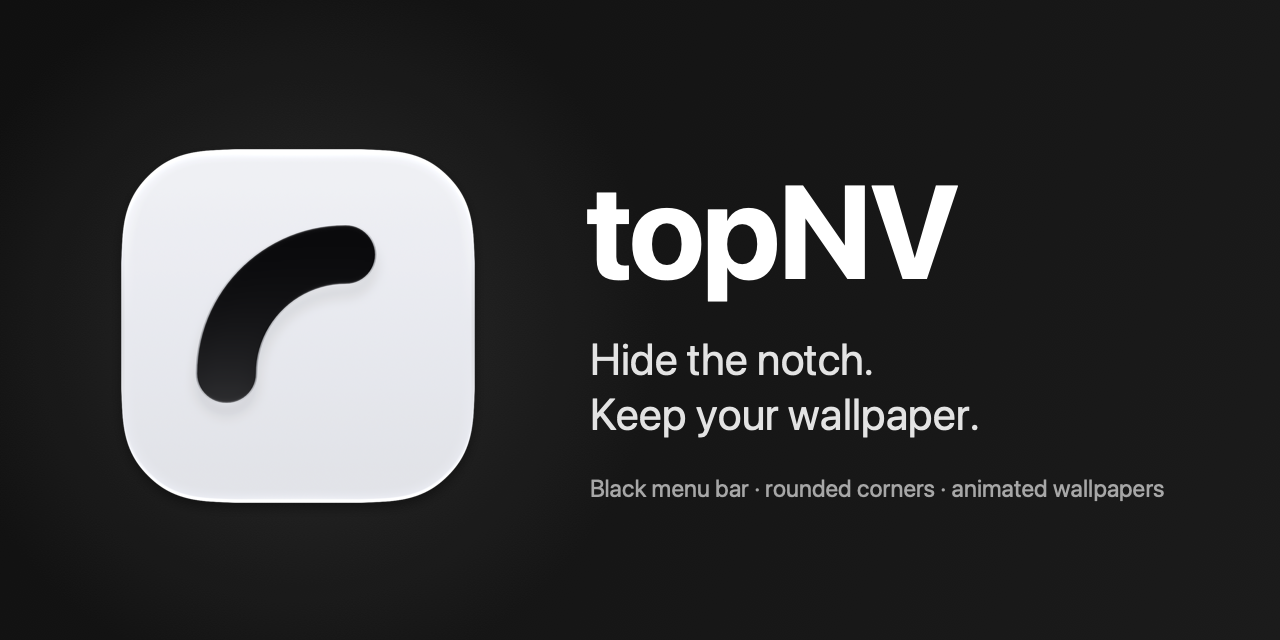
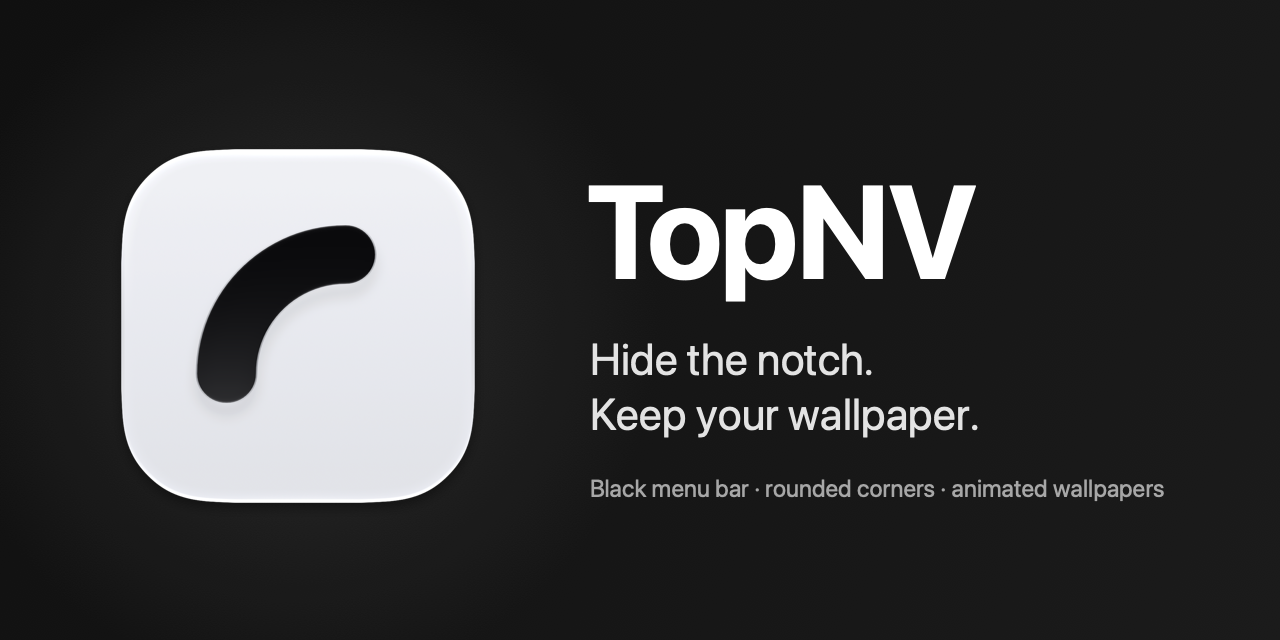
feat(app): rename the app to TopNV and add a sponsor link
Use TopNV as the display name in the menu, About panel, bundle, DMG, README and cover. Keep the bundle identifier so preferences and login items survive the update. Add a Buy Me a Coffee link to the About panel and README, and a FUNDING file for the repository Sponsor button.

Changed region(s): [[0.4375, 0.2812, 0.7812, 0.4688]]

diff --git a/Sources/TopNV/TopNVApp.swift b/Sources/TopNV/TopNVApp.swift
@@ -41,9 +41,9 @@ private struct MenuBarLabel: View {
 
   var body: some View {
     if let icon = Self.icon {
-      Image(nsImage: icon).accessibilityLabel("topNV")
+      Image(nsImage: icon).accessibilityLabel("TopNV")
     } else {
-      Image(systemName: "menubar.rectangle").accessibilityLabel("topNV")
+      Image(systemName: "menubar.rectangle").accessibilityLabel("TopNV")
     }
   }
 }
@@ -88,7 +88,7 @@ struct SettingsMenu: View {
     build: Bundle.main.object(forInfoDictionaryKey: "CFBundleVersion") as? String)
 
   var body: some View {
-    Section("topNV") {
+    Section("TopNV") {
       let status = MenuStatus(hideNotch: settings.hideNotch, roundCorners: settings.roundCorners)
       Label(status.title, systemImage: status.symbol)
         .foregroundStyle(.secondary)
@@ -132,7 +132,7 @@ struct SettingsMenu: View {
       if let message = loginItem.errorMessage {
         info(message)
       } else if loginItem.needsApproval {
-        info("Allow topNV in System Settings > General > Login Items.")
+        info("Allow TopNV in System Settings > General > Login Items.")
       }
       Divider()
       Toggle(isOn: Binding(
@@ -140,15 +140,15 @@ struct SettingsMenu: View {
       )) {
         Label("Hide Menu Bar Icon", systemImage: "menubar.rectangle")
       }
-      info("Open topNV again to bring it back.")
+      info("Open TopNV again to bring it back.")
     } label: {
       Label("Options", systemImage: "gearshape")
     }
     Divider()
     info(version.title)
-    Button("About topNV") { AboutPanel.show() }
+    Button("About TopNV") { AboutPanel.show() }
     Divider()
-    Button("Quit topNV") { NSApp.terminate(nil) }
+    Button("Quit TopNV") { NSApp.terminate(nil) }
       .keyboardShortcut("q", modifiers: .command)
   }
 

diff --git a/Sources/TopNV/AboutPanel.swift b/Sources/TopNV/AboutPanel.swift
@@ -5,20 +5,28 @@ import TopNVCore
 enum AboutPanel {
   static func show() {
     let credits = NSMutableAttributedString(
-      string: "topNV hides the MacBook notch and rounds the screen corners.\n\n"
+      string: "TopNV hides the MacBook notch and rounds the screen corners.\n\n"
         + "Requires macOS 14 or later. Needs no Screen Recording or Accessibility permission.\n\n",
       attributes: [.font: NSFont.systemFont(ofSize: NSFont.smallSystemFontSize)])
     if let url = AppLink.source.url {
-      credits.append(NSAttributedString(
-        string: url.absoluteString,
-        attributes: [
-          .link: url,
-          .font: NSFont.systemFont(ofSize: NSFont.smallSystemFontSize),
-        ]))
+      credits.append(link(url.absoluteString, to: url))
+    }
+    if let url = AppLink.sponsor.url {
+      credits.append(NSAttributedString(string: "\n\n"))
+      credits.append(link("Buy Me a Coffee", to: url))
     }
 
     NSApp.activate()
     // The standard panel reads the icon, name, version, build and copyright from the bundle.
     NSApp.orderFrontStandardAboutPanel(options: [.credits: credits])
+  }
+
+  private static func link(_ title: String, to url: URL) -> NSAttributedString {
+    NSAttributedString(
+      string: title,
+      attributes: [
+        .link: url,
+        .font: NSFont.systemFont(ofSize: NSFont.smallSystemFontSize),
+      ])
   }
 }

diff --git a/scripts/render-assets.swift b/scripts/render-assets.swift
@@ -1,6 +1,6 @@
 // render-assets.swift
 //
-// Renders every visual asset of topNV from AppIconMaster.png in the output
+// Renders every visual asset of TopNV from AppIconMaster.png in the output
 // directory, using CoreGraphics, ImageIO and CoreText (no AppKit, no WindowServer).
 // AppIcon.icon is the editable design source; the master is its full-canvas render.
 //
@@ -249,7 +249,7 @@ func renderCover(icon: CGImage) throws -> CGImage {
   let textX: CGFloat = 590
   let maxWidth = W - textX - 96
   let (title, _) = fittedLine(
-    "topNV", size: 132, maxWidth: maxWidth, color: color(0xFFFFFF), kern: -2.5, font: titleFont)
+    "TopNV", size: 132, maxWidth: maxWidth, color: color(0xFFFFFF), kern: -2.5, font: titleFont)
   let (tag1, tagSize) = fittedLine(
     "Hide the notch.", size: 44, maxWidth: maxWidth, color: color(0xEEEEEE, 0.95), font: bodyFont)
   let (tag2, _) = fittedLine(

diff --git a/Tests/TopNVCoreTests/MenuOptionsTests.swift b/Tests/TopNVCoreTests/MenuOptionsTests.swift
@@ -25,7 +25,8 @@ final class MenuOptionsTests: XCTestCase {
   }
 
   func testFractionalRadiiAreNotRoundedToPresets() {
-    let values = (0..<30).map { Double($0) + 0.5 }
+    let values =
+      (0..<30).map { Double($0) + 0.5 }
       + [Double(5).nextDown, Double(5).nextUp, 13.25, 29.999]
     for value in values {
       let options = CornerRadiusOption.options(for: value)
@@ -57,8 +58,9 @@ final class MenuOptionsTests: XCTestCase {
       .releaseNotes: "/bernalli/topNV/releases",
       .reportIssue: "/bernalli/topNV/issues/new",
       .source: "/bernalli/topNV",
+      .sponsor: "/sponsors/bernalli",
     ]
-    XCTAssertEqual(AppLink.allCases.count, 3)
+    XCTAssertEqual(AppLink.allCases.count, 4)
     for link in AppLink.allCases {
       let url = try XCTUnwrap(link.url)
       XCTAssertEqual(url.scheme, "https")

diff --git a/Tests/TopNVCoreTests/MenuPresentationTests.swift b/Tests/TopNVCoreTests/MenuPresentationTests.swift
@@ -30,13 +30,13 @@ final class MenuPresentationTests: XCTestCase {
   }
 
   func testInformationWrapsAtWordsWithoutLosingTheNotice() {
-    let notice = "Allow topNV in System Settings > General > Login Items."
+    let notice = "Allow TopNV in System Settings > General > Login Items."
     XCTAssertEqual(MenuText.lines(notice), [
-      "Allow topNV in System Settings > General >", "Login Items.",
+      "Allow TopNV in System Settings > General >", "Login Items.",
     ])
     XCTAssertEqual(MenuText.lines(notice).joined(separator: " "), notice)
-    XCTAssertEqual(MenuText.lines("Open topNV again to bring it back."), [
-      "Open topNV again to bring it back.",
+    XCTAssertEqual(MenuText.lines("Open TopNV again to bring it back."), [
+      "Open TopNV again to bring it back.",
     ])
   }
 

diff --git a/Sources/TopNVCore/AppLink.swift b/Sources/TopNVCore/AppLink.swift
@@ -4,6 +4,7 @@ public enum AppLink: String, CaseIterable {
   case releaseNotes = "https://github.com/bernalli/topNV/releases"
   case reportIssue = "https://github.com/bernalli/topNV/issues/new"
   case source = "https://github.com/bernalli/topNV"
+  case sponsor = "https://github.com/sponsors/bernalli"
 
   public var url: URL? { URL(string: rawValue) }
 }

diff --git a/README.md b/README.md
@@ -1,6 +1,6 @@
 <div align="center">
-  <img src="Assets/cover.png" alt="topNV" width="800">
-  <h1>topNV</h1>
+  <img src="Assets/cover.png" alt="TopNV" width="800">
+  <h1>TopNV</h1>
   <p>Blend the MacBook notch into a black menu bar and give your display rounded corners.</p>
   <p>
     <a href="https://github.com/bernalli/topNV/releases/latest"><img src="https://img.shields.io/github/v/release/bernalli/topNV?label=release" alt="Latest release"></a>
@@ -12,9 +12,9 @@
 
 **[Download the latest release](https://github.com/bernalli/topNV/releases/latest)** · macOS 14 or later
 
-Open `topNV-<version>.dmg` and drag **topNV** into **Applications**.
+Open `TopNV-<version>.dmg` and drag **TopNV** into **Applications**.
 
-topNV is signed ad hoc, not notarized. On first launch, right-click the app in
+TopNV is signed ad hoc, not notarized. On first launch, right-click the app in
 Applications and choose **Open**, then confirm. If macOS blocks it, allow it in
 **System Settings > Privacy & Security**.
 
@@ -41,18 +41,18 @@ Click the menu-bar icon to see the current configuration and change it directly.
 | Corner Radius | Select a preset. A stored non-preset value remains selected as **Custom**, without rounding it to a preset. |
 | Details | Show the stored radius, selected display scope and system requirements; open the source, release notes or issue tracker. |
 | Options | Set **Corners on All Displays**, **Launch at Login** and **Hide Menu Bar Icon**. |
-| Version / About topNV | Show the installed version and the standard macOS About panel. |
-| Quit topNV · ⌘Q | Stop the app and remove its overlays. |
+| Version / About TopNV | Show the installed version and the standard macOS About panel. |
+| Quit TopNV · ⌘Q | Stop the app and remove its overlays. |
 
 Corner Radius and Corners on All Displays are disabled while Round Corners is off.
 If Launch at Login needs approval, Options tells you to allow it in
 **System Settings > General > Login Items**; registration errors appear there too.
 
-To restore a hidden menu-bar icon, **open topNV again from Applications**.
+To restore a hidden menu-bar icon, **open TopNV again from Applications**.
 
 ## How it works
 
-topNV places a black, click-through window behind the menu bar on each notched display.
+TopNV places a black, click-through window behind the menu bar on each notched display.
 The system menu bar draws above it, keeping its items readable and clickable.
 It neither reads nor changes the wallpaper.
 
@@ -79,10 +79,10 @@ Install Xcode 16 or later with its macOS SDK and command-line tools selected, th
 git clone https://github.com/bernalli/topNV.git
 cd topNV
 scripts/bundle.sh
-open build/topNV.app
+open build/TopNV.app
 ```
 
-The script builds the release executable, assembles `build/topNV.app` and signs it ad hoc.
+The script builds the release executable, assembles `build/TopNV.app` and signs it ad hoc.
 Move the app to Applications to keep it installed. To bundle an existing executable,
 set `TOPNV_EXECUTABLE` to its path when running the script.
 
@@ -100,7 +100,11 @@ and publishes a versioned DMG. It runs on a `v*` tag or through **Actions > Rele
 Run workflow** with a version number.
 
 For a local disk image, run `scripts/make-dmg.sh` after `scripts/bundle.sh`;
-the result is `build/topNV.dmg`.
+the result is `build/TopNV.dmg`.
+
+## Support
+
+If TopNV is useful to you, you can [buy me a coffee](https://github.com/sponsors/bernalli).
 
 ## Author
 
